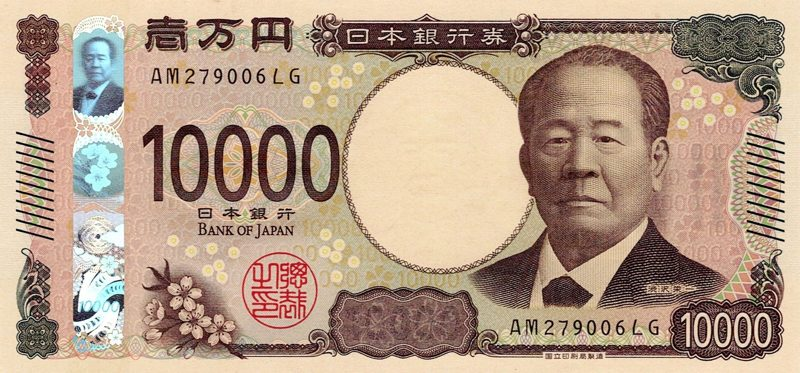
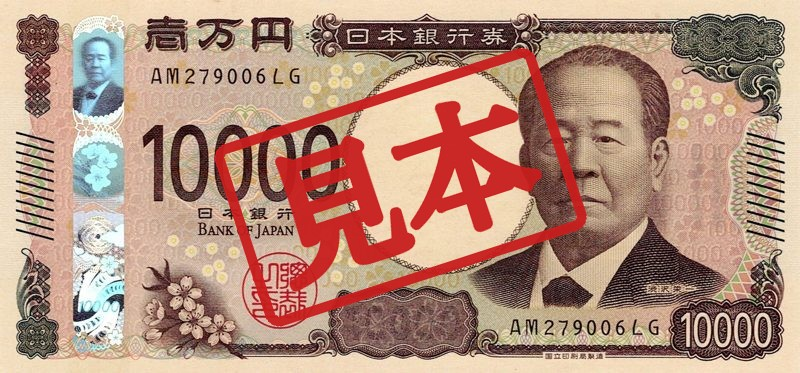
お札の画像に「見本」の文字を焼き込み、画面上の重ね表示を外す
画像ファイル単体で見本と分かるように、赤い「見本」の文字と枠を
画像そのものに入れた。CSSで重ねていた薄い表示は二重になるため削除。

Changed region(s): [[0.25, 0.118, 0.75, 0.8847]]

diff --git a/style.css b/style.css
@@ -181,25 +181,6 @@ body {
   pointer-events: none;
 }
 
-/* 見本表示（実物と誤認されないように） */
-.sample {
-  position: absolute;
-  left: 50%;
-  top: 50%;
-  transform: translate(-50%, -50%) rotate(-18deg);
-  font-family: "Hiragino Mincho ProN", "Yu Mincho", "Noto Serif JP", serif;
-  font-weight: 700;
-  font-size: calc(var(--bill-w) * 0.15);
-  letter-spacing: 0.2em;
-  color: #c0392b;
-  border: calc(var(--bill-w) * 0.008) solid #c0392b;
-  padding: 0 0.15em 0 0.35em;
-  border-radius: 6px;
-  pointer-events: none;
-  line-height: 1.2;
-  opacity: 0.35;
-}
-
 .stack.press .bill { transform: translateY(1px) scale(0.995); }
 
 .hint {

diff --git a/index.html b/index.html
@@ -42,7 +42,6 @@
         <div class="stack-shadow s1"></div>
         <div class="bill" id="topBill">
           <img src="images/10000yen.jpg" alt="1万円札" draggable="false">
-          <span class="sample">見本</span>
         </div>
       </div>
       <p class="hint" id="hint">お札をタップ / クリック、またはスペースキーでめくる</p>

diff --git a/README.md b/README.md
@@ -22,4 +22,4 @@
 
 ビルド不要の静的サイトなので、GitHub Pages などにそのまま配置できます。
 
-※ 画面上のお札には「見本」の表示を重ねています。
+※ お札の画像（`images/10000yen.jpg`）には「見本」の文字を焼き込んでいます。
